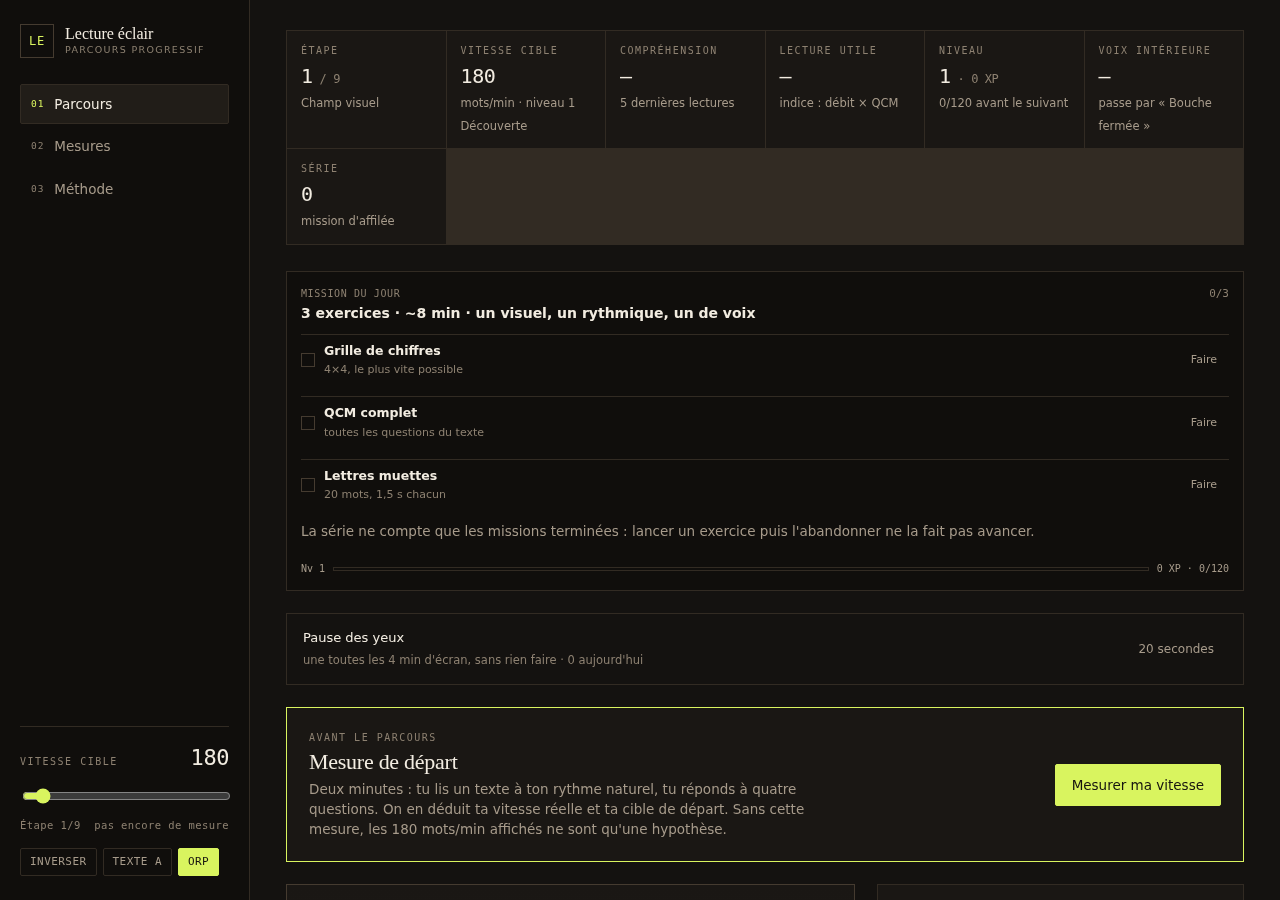
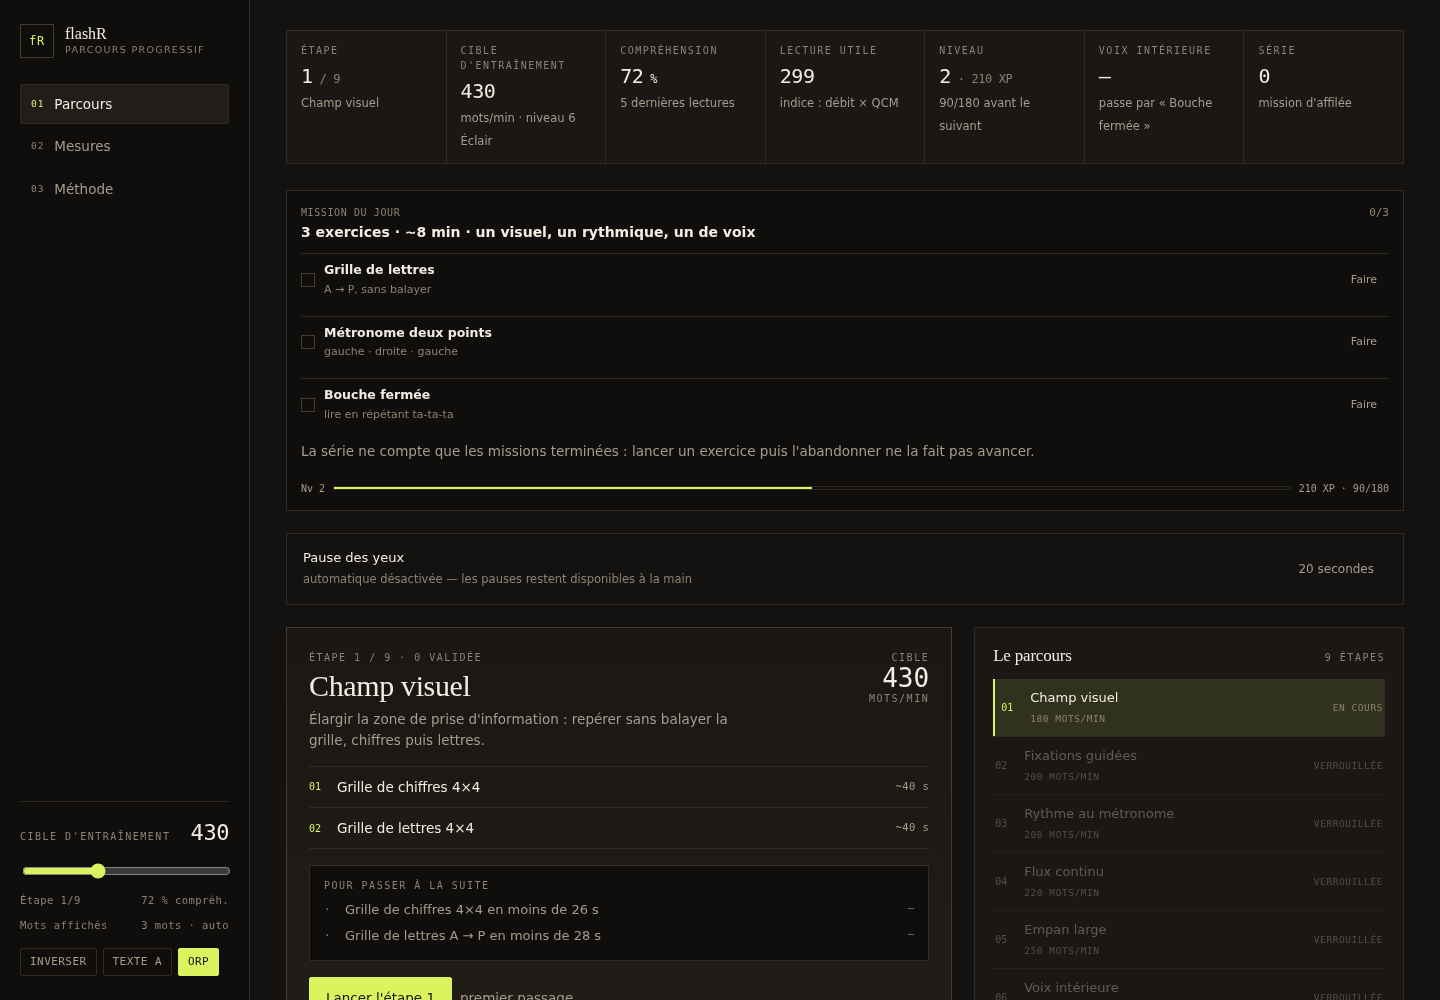
Dashboard settings pass: automatic values in the rail, demo link on the repo
- rail shows 'Cible d'entrainement' and 'Mots affiches ... auto' (derived from
  the speed tier); the manual words-per-display floor is dropped
- duplicate speed slider and chunk chips removed from the dashboard panel
- panel restructured: Automatiques / Options / Donnees (backup, restore, erase)
- labels clarified across status bar and result verdict
- demo badge and link at the top of both READMEs; refreshed screenshot

diff --git a/index.html b/index.html
@@ -449,9 +449,10 @@ textarea.recall:focus{border-color:var(--accent);outline:none}
     </nav>
     <div class="rail-foot">
       <div class="dial">
-        <div class="dial-row"><span class="eyebrow">Vitesse cible</span><span class="mono dial-num" id="railWpm">180</span></div>
-        <input id="railRange" type="range" min="120" max="1000" step="10" aria-label="Vitesse cible en mots par minute">
+        <div class="dial-row"><span class="eyebrow" title="Cible d'entraînement : déterminée par ton niveau, elle monte ou descend de ±20 mots/min selon ta compréhension">Cible d'entraînement</span><span class="mono dial-num" id="railWpm">180</span></div>
+        <input id="railRange" type="range" min="120" max="1000" step="10" aria-label="Vitesse cible d'entraînement en mots par minute">
         <div class="dial-row small"><span id="railEtape">Étape 1</span><span id="railComp"></span></div>
+        <div class="dial-row small"><span title="Déterminé par le palier de vitesse : 1 mot jusqu'à 250, 2 dès 300, 4 dès 520, 8 à 1000. La feuille de réglages d'un exercice peut s'en écarter.">Mots affichés</span><span class="mono" id="railChunk">1 mot · auto</span></div>
       </div>
       <div class="rail-toggles">
         <button class="chip" id="themeBtn" title="Basculer encre / papier">INVERSER</button>
@@ -1055,7 +1056,7 @@ async function blockMetronome(tok,text,wpm,wpBeat){
   setHost();
   const ws=readTokens(text.corps);
   // taille du groupe : le même réglage que le Flash (mots par affichage), qui monte avec le palier de vitesse
-  const per=wpBeat||clamp(Math.max(S.chunk||1, chunkForLevel()),1,8);
+  const per=wpBeat||clamp(chunkForLevel(),1,8);
   const groups=[];
   let cur=[];
   for(const w of ws){
@@ -1942,7 +1943,7 @@ const READ_MODES=new Set(['rsvp','pacer','metronome','guide']);
 async function runReadingBlock(spec,tok,text,niveau){
   const wpm=clamp(spec.wpm||S.wpm,120,WPM_MAX);
   // taille du groupe : la préférence de l'utilisateur est un plancher, le niveau impose le reste
-  const chunk=spec.chunk||clamp(Math.max(S.chunk||1, chunkForLevel()),1,8);
+  const chunk=spec.chunk||clamp(chunkForLevel(),1,8);
   const t=text||pickText(niveau||niveauCourant(),{maxWords:800});
   let read=null;
   if(spec.k==='rsvp') read=await blockRsvp(tok,t,wpm,chunk);
@@ -2178,7 +2179,7 @@ async function launchCalibrage(){
     <div class="verdict">${quiz.comp>=.75
       ? `Tu lis vite et tu comprends : la cible démarre <strong>12 % au-dessus</strong> de ta vitesse mesurée, et le parcours la fera monter par paliers tant que la compréhension tient.`
       : `Compréhension fragile à cette allure : la cible reste à ta vitesse mesurée. Le parcours commencera par consolider la saisie avant d'accélérer — c'est l'ordre correct.`}
-      <br><br>La vitesse cible <strong>n'est pas un objectif fixe</strong> : elle bouge de ±20 mots/min après chaque séance, selon ce que tu comprends réellement.</div>
+      <br><br>La cible d'entraînement <strong>n'est pas un objectif fixe</strong> : elle bouge de ±20 mots/min après chaque séance, selon ce que tu comprends réellement.</div>
     <div class="result-actions">
       <button class="btn primary" id="calGo">Commencer l'étape 1</button>
       <button class="btn ghost" id="calLater">Plus tard</button>
@@ -2214,8 +2215,8 @@ function exoDefaults(kind){
     eventail:{n:12,len:clamp(S.fanLen||2,2,8)},
     saccades:{rounds:3},
     peripherie:{rounds:8,dur:clamp(S.periphDur||220,80,320)},
-    rsvp:{wpm:S.wpm,chunk:clamp(S.chunk||1,1,8)},
-    metronome:{wpm:S.wpm,chunk:clamp(S.chunk||1,1,8)},
+    rsvp:{wpm:S.wpm,chunk:clamp(chunkForLevel(),1,8)},
+    metronome:{wpm:S.wpm,chunk:clamp(chunkForLevel(),1,8)},
     pacer:{wpm:S.wpm},
     guide:{wpm:S.wpm,group:3},
     suppression:{wpm:Math.max(250,S.wpm),chunk:1},
@@ -2357,7 +2358,7 @@ async function launchFree(kind, missionIdx=null, specOverride=null){
     </div>
     <div class="xp"><span class="xp-num">Nv ${lv.n}</span><span class="xp-bar"><i style="width:${lv.pct}%"></i></span><span class="xp-num">${lv.rest}/${lv.need}</span></div>
     ${miss&&miss.complete?`<div class="verdict">Mission complète : <b>+${miss.bonus} XP</b> et une journée de plus dans la série (${miss.streak}). La série ne compte que les missions terminées, pas les exercices lancés puis abandonnés.</div>`:''}
-    ${READ_MODES.has(r.k)?`<div class="verdict">Vitesse cible ${Math.round(r.wpm)} mots/min : ${S.wpm>r.wpm?'elle monte à '+S.wpm:S.wpm<r.wpm?'elle redescend à '+S.wpm:'elle reste inchangée'} pour la prochaine séance.</div>`:`<div class="verdict">Mesure enregistrée. Cet exercice ne modifie pas ta vitesse de lecture.</div>`}
+    ${READ_MODES.has(r.k)?`<div class="verdict">Cible d'entraînement ${Math.round(r.wpm)} mots/min : ${S.wpm>r.wpm?'elle monte à '+S.wpm:S.wpm<r.wpm?'elle redescend à '+S.wpm:'elle reste inchangée'} pour la prochaine séance.</div>`:`<div class="verdict">Mesure enregistrée. Cet exercice ne modifie pas ta cible d'entraînement.</div>`}
     <div class="result-actions">
       ${missionIdx!=null&&!miss.complete?`<button class="btn primary" id="missionNext">Tâche suivante →</button>`:''}
       <button class="btn${missionIdx!=null&&!miss.complete?'':' primary'}" id="freeAgain">Refaire</button>
@@ -2544,6 +2545,7 @@ function renderRail(){
   const c=avgComp(5);
   $('#railComp').textContent=c!=null?Math.round(c*100)+' % compréh.':'pas encore de mesure';
   $('#railEtape').textContent='Étape '+Math.min(currentEtapeIdx()+1,ETAPES.length)+'/'+ETAPES.length;
+  const rc=$('#railChunk'); if(rc){ const cl=chunkForLevel(); rc.textContent=cl+(cl>1?' mots':' mot')+' · auto'; }
   document.documentElement.dataset.theme=S.theme;
   document.documentElement.style.setProperty('--tscale',S.size);
   $('#orpBtn').classList.toggle('is-on',!!S.orp);
@@ -2601,7 +2603,7 @@ function renderDash(){
   $('#view-dash').innerHTML=`
   <div class="statusbar">
     <div class="sb"><span class="eyebrow">Étape</span><b>${idx+1}<span style="font-size:12px;color:var(--dim)"> / ${ETAPES.length}</span></b><small>${esc(e.nom)}</small></div>
-    <div class="sb"><span class="eyebrow">Vitesse cible</span><b>${S.wpm}</b><small>mots/min · niveau ${lvl+1} ${LEVELS[lvl].nom}</small></div>
+    <div class="sb"><span class="eyebrow">Cible d'entraînement</span><b>${S.wpm}</b><small>mots/min · niveau ${lvl+1} ${LEVELS[lvl].nom}</small></div>
     <div class="sb"><span class="eyebrow">Compréhension</span><b>${comp!=null?Math.round(comp*100)+'<span style="font-size:12px"> %</span>':'—'}</b><small>5 dernières lectures</small></div>
     <div class="sb"><span class="eyebrow">Lecture utile</span><b>${eff!=null?Math.round(eff):'—'}</b><small>indice : débit × QCM</small></div>
     <div class="sb"><span class="eyebrow">Niveau</span><b>${niveauInfo().n}<span style="font-size:12px;color:var(--dim)"> · ${S.xp||0} XP</span></b><small>${niveauInfo().rest}/${niveauInfo().need} avant le suivant</small></div>
@@ -2676,32 +2678,29 @@ function renderDash(){
       </div>
       <div class="panel">
         <div class="panel-h"><h2>Réglages</h2></div>
-        <div style="display:flex;flex-direction:column;gap:12px">
+        <div style="display:flex;flex-direction:column;gap:14px">
           <div>
-            <span class="eyebrow">Vitesse cible (mots/min)</span>
-            <div style="display:flex;align-items:center;gap:10px;margin-top:4px">
-              <input type="range" min="120" max="1000" step="10" id="dashRange" value="${S.wpm}" style="flex:1">
-              <span class="mono" style="font-size:15px;min-width:3ch;text-align:right">${S.wpm}</span>
+            <span class="eyebrow">Automatiques</span>
+            <p class="hint" style="margin:6px 0 0">La <b style="color:var(--ink)">cible d'entraînement</b> et les <b style="color:var(--ink)">mots par affichage</b> évoluent avec ton niveau ; ils se règlent dans la colonne de gauche. La feuille de chaque exercice libre permet de s'en écarter ponctuellement, sans changer la cible.</p>
+          </div>
+          <div>
+            <span class="eyebrow">Options</span>
+            <div style="display:flex;gap:6px;flex-wrap:wrap;margin-top:6px">
+              <button class="chip ${S.orp?'is-on':''}" data-pref="orp">Ancrage ORP</button>
+              <button class="chip ${S.click?'is-on':''}" data-pref="click">Son du métronome</button>
+              <button class="chip ${S.eyeAuto?'is-on':''}" data-pref="eyeAuto">Pauses des yeux auto</button>
+              <button class="chip" data-pref="theme">Thème ${S.theme==='ink'?'encre':'papier'}</button>
+              <button class="chip" data-pref="size">Taille ${['normale','grande','max'][[1,1.14,1.28].indexOf(S.size)]||'grande'}</button>
             </div>
           </div>
           <div>
-            <span class="eyebrow">Mots par affichage (Flash)</span>
-            <div style="display:flex;gap:6px;margin-top:6px">
-              ${[1,2,3,4,5,6,7,8].map(n=>`<button class="chip ${S.chunk===n?'is-on':''}" data-chunk="${n}">${n}</button>`).join('')}
+            <span class="eyebrow">Données</span>
+            <p class="hint" style="margin:6px 0 8px">Stockées localement dans ce navigateur. Aucun envoi, aucun compte.</p>
+            <div style="display:flex;gap:6px;flex-wrap:wrap;margin-bottom:8px">
+              <button class="chip" id="exportJson">Sauvegarde (JSON)</button>
+              <label class="chip" style="cursor:pointer;display:inline-flex;align-items:center">Restaurer<input type="file" id="importJson" accept="application/json,.json" hidden></label>
             </div>
-          </div>
-          <div style="display:flex;gap:6px;flex-wrap:wrap">
-            <button class="chip ${S.orp?'is-on':''}" data-pref="orp">Ancrage ORP</button>
-            <button class="chip ${S.click?'is-on':''}" data-pref="click">Son du métronome</button>
-            <button class="chip ${S.eyeAuto?'is-on':''}" data-pref="eyeAuto">Pauses des yeux auto</button>
-            <button class="chip" data-pref="theme">Thème ${S.theme==='ink'?'encre':'papier'}</button>
-            <button class="chip" data-pref="size">Taille ${['normale','grande','max'][[1,1.14,1.28].indexOf(S.size)]||'grande'}</button>
-          </div>
-          <p class="hint">Données stockées localement dans ce navigateur. Aucun envoi, aucun compte.</p>
-          <button class="btn ghost" id="resetAll" style="align-self:flex-start">Effacer mes données</button>
-          <div style="display:flex;gap:6px;flex-wrap:wrap;margin-top:2px">
-            <button class="chip" id="exportJson">Sauvegarde (JSON)</button>
-            <label class="chip" style="cursor:pointer;display:inline-flex;align-items:center">Restaurer<input type="file" id="importJson" accept="application/json,.json" hidden></label>
+            <button class="btn ghost" id="resetAll" style="align-self:flex-start">Effacer mes données</button>
           </div>
         </div>
       </div>
@@ -2714,7 +2713,7 @@ function renderDash(){
   $$('#freeList [data-free]').forEach(b=>b.addEventListener('click',()=>askFree(b.dataset.free)));
   $$('[data-mission]').forEach(b=>{ const i=+b.dataset.mission; b.addEventListener('click',()=>launchFree(missionState().plan[i],i)); });
   const en=$('#eyeNow'); if(en) en.addEventListener('click',()=>eyeBreak(true));
-  $('#dashRange').addEventListener('input',e2=>{ S.wpm=+e2.target.value; save(); renderDash(); });
+  const dr=$('#dashRange'); if(dr) dr.addEventListener('input',e2=>{ S.wpm=+e2.target.value; save(); renderDash(); });
   $$('[data-chunk]').forEach(b=>b.addEventListener('click',()=>{ S.chunk=+b.dataset.chunk; save(); renderDash(); }));
   $$('[data-pref]').forEach(b=>b.addEventListener('click',()=>{
     const p=b.dataset.pref;

diff --git a/README.fr.md b/README.fr.md
@@ -1,5 +1,10 @@
 # flashR
 
+[![Démo](https://img.shields.io/badge/d%C3%A9mo-en%20ligne-brightgreen)](https://tournierjc.github.io/flashR/)
+[![Licence : MIT](https://img.shields.io/badge/licence-MIT-blue.svg)](LICENSE)
+
+**▶ Démo : https://tournierjc.github.io/flashR/** — le même fichier que la version locale, rien à installer.
+
 ![Tableau de bord flashR](docs/dashboard.png)
 
 Application web autonome (un seul fichier, sans dépendance, sans réseau) pour travailler la lecture rapide **sans sacrifier la compréhension**.

diff --git a/README.md b/README.md
@@ -1,5 +1,10 @@
 # flashR
 
+[![Live demo](https://img.shields.io/badge/demo-live-brightgreen)](https://tournierjc.github.io/flashR/)
+[![License: MIT](https://img.shields.io/badge/license-MIT-blue.svg)](LICENSE)
+
+**▶ Try it now: https://tournierjc.github.io/flashR/** — same file as the local one, nothing to install.
+
 ![flashR dashboard](docs/dashboard.png)
 
 A self-contained, offline web app for training **reading speed without sacrificing comprehension**.
